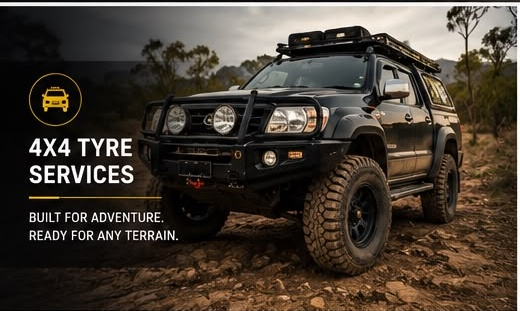
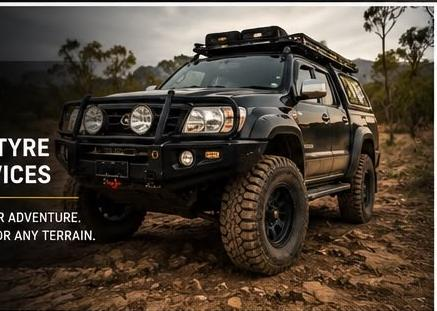
Fix 4x4 vehicle image text overlay and optimize media image wrapper styling

diff --git a/core/static/css/style.css b/core/static/css/style.css
@@ -555,10 +555,11 @@ img {
 
 .media-img-wrapper {
   position: relative;
-  border-radius: 4px;
+  border-radius: 6px;
   overflow: hidden;
   border: 2px solid var(--color-card-border);
   box-shadow: var(--shadow);
+  background-color: var(--color-bg-alt);
 }
 
 .media-img-wrapper::after {
@@ -572,8 +573,11 @@ img {
 
 .media-img-wrapper img {
   width: 100%;
-  height: 400px;
+  height: 100%;
+  max-height: 450px;
   object-fit: cover;
+  object-position: center;
+  display: block;
   transition: transform 0.5s ease;
 }
 
